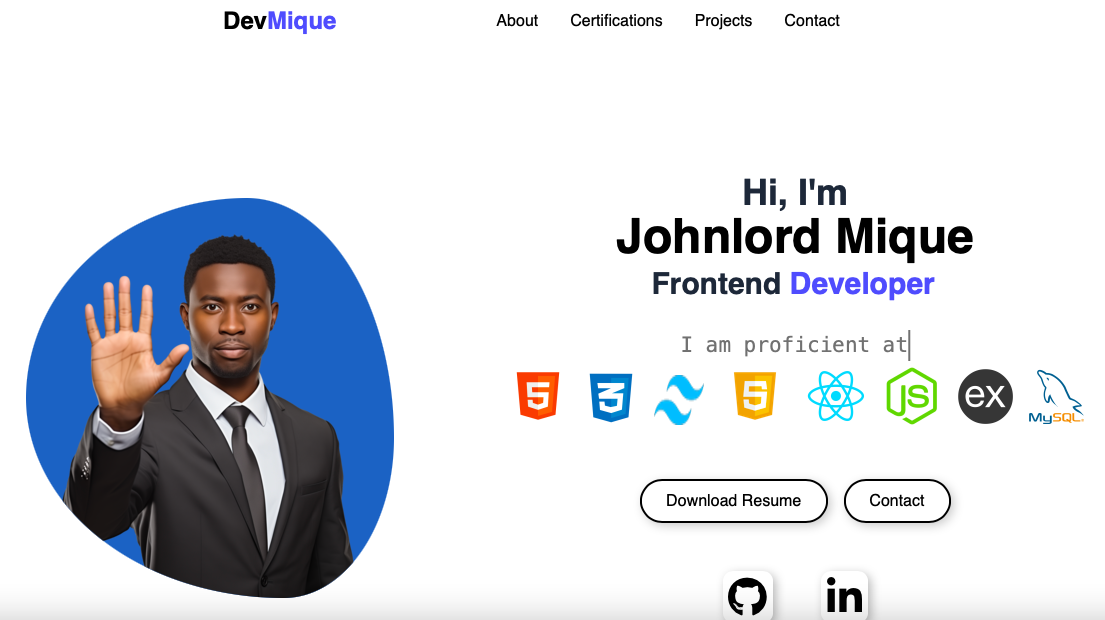
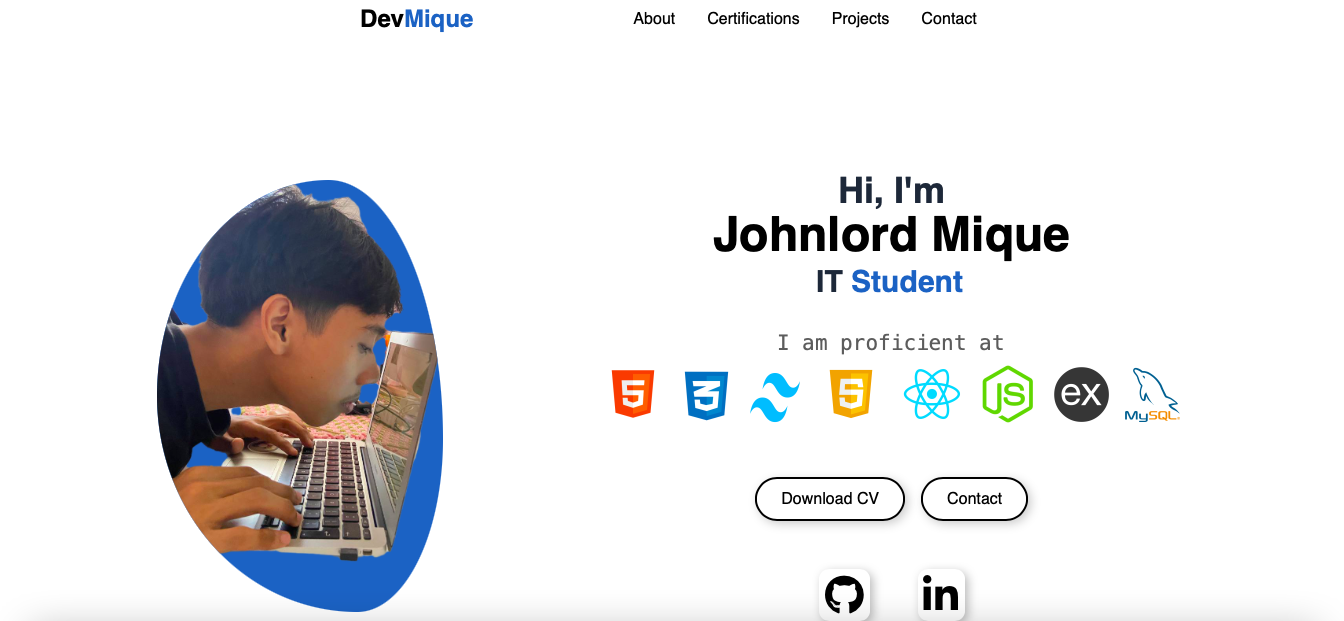
first commit

diff --git a/index.html b/index.html
@@ -30,12 +30,12 @@
     </header>
   <section id="about" class="flex items-center justify-center">
     <div class=" about-container flex items-center justify-center gap-40 max-xl:gap-12 max-md:flex-col">
-        <img src="mee.webp" alt="me" class="about-img">
+        <img src="me2.png" alt="me" class="about-img">
         <div class="  flex flex-col text-center items-center justify-center gap-12">
             <div class="text">
                 <h3 class="text-4xl font-semibold text-gray-800">Hi, I'm</h3>
                 <h1 class="text-5xl font-semibold">Johnlord Mique</h1>
-                <span class="text-[1.9rem] text-[#0759b6e4] font-semibold"><span class="text-gray-800">Frontend</span> Developer</span>
+                <span class="text-[1.9rem] text-[#0759b6e4] font-semibold"><span class="text-gray-800">IT</span> Student</span>
                <br></br>
                 <h1 class="skill-text">I am proficient at</h1>
                 <div class="flex gap-4 cursor-pointer justify-center items-center">
@@ -50,7 +50,7 @@
                 </div>
             </div>
             <div class="flex gap-4">
-                <div class="btn">Download Resume</div>
+                <div class="btn">Download CV</div>
                 <div class="btn">Contact</div>
             </div>
             <div class="flex gap-12">
@@ -65,37 +65,44 @@
     <div class="flex items-center justify-center gap-20 max-xl:flex-col">
         <div class="grid grid-cols-2 gap-8 max-md:grid-cols-1">
             <div class="grid-card">
-                <i class="fa-solid fa-terminal"></i>
-                <span class="font-bold text-[1.2rem] text-gray-900" >Full-Stack <span class="text-[#0759b6e4]">Development</span></span>
+               
                 <img src="cert1.jpg" alt="" class=" cert h-[320px] w-full rounded-xl">
+                <i class="fa-solid fa-terminal"></i>
+                <span class="font-bold text-[1.2rem] text-gray-900">Full-Stack <span class="text-[#0759b6e4]">Development</span></span>
                 <h3 class="font-semibold">April 16, 2025</h3>
                 <p>Online course from mimo.org/mimo app.</p>
             </div>
             <div class="grid-card">
+               
+                <img src="cert2.jpg" alt="" class="cert rounded-xl">
                 <i class="fa-solid fa-code"></i>
-                <span class="font-bold text-[1.2rem] text-gray-900">Introduction to <span class="text-[#0759b6e4]">JavaScript</span></span>
-                <img src="cert2.jpg" alt="" class="cert">
+                <span class="font-bold text-[1.2rem] text-gray-900">Introduction to <span
+                        class="text-[#0759b6e4]">JavaScript</span></span>
                 <h3 class="font-semibold">July 3, 2024</h3>
                 <p>Online course from Sololearn app.</p>
             </div>
             <div class="grid-card">
-            <i class="fa-solid fa-code"></i>
-                <span  class="font-bold text-[1.2rem] text-gray-900">JavaScript <span class="text-[#0759b6e4]">Intermediate</span></span>
-                <img src="cert3.jpg" alt="" class="cert">
+           
+                <img src="cert3.jpg" alt="" class="cert rounded-xl">
+                <i class="fa-solid fa-code"></i>
+                <span class="font-bold text-[1.2rem] text-gray-900">JavaScript <span class="text-[#0759b6e4]">Intermediate</span></span>
+             
                 <h3 class="font-semibold">July 7, 2024</h3>
                 <p>Online course from Sololearn app.</p>
             </div>
             <div class="grid-card">
+               
+                <img src="cert4.jpg" alt="" class="cert rounded-xl">
                 <i class="fa-solid fa-database"></i>
-                <span  class="font-bold text-[1.2rem] text-gray-900">Introduction to <span class="text-[#0759b6e4]">SQL</span></span>
-                <img src="cert4.jpg" alt="" class="cert">
+                <span class="font-bold text-[1.2rem] text-gray-900">Introduction to <span class="text-[#0759b6e4]">SQL</span></span>
                 <h3 class="font-semibold">October 16, 2024</h3>
                 <p>Online course from Sololearn app.</p>
             </div>
             <div class="grid-card">
+               
+                <img src="cert5.jpg" alt="" class="cert rounded-xl">
                 <i class="fa-solid fa-database"></i>
                 <span class="font-bold text-[1.2rem] text-gray-900">SQL <span class="text-[#0759b6e4]">Intermediate</span></span>
-                <img src="cert5.jpg" alt="" class="cert">
                 <h3 class="font-semibold">November 03, 2024</h3>
                 <p>Online course from Sololearn app.</p>
             </div>
@@ -110,7 +117,8 @@
         <div class="project-card">
             <img src="project1.jpeg" alt="" class="project-img w-[200px] h-[200px]">
             <h3>Project 1</h3>
-            <h2 class="text-[1.2rem] font-bold"> Admin-Parent <span class="text-[#0759b6e4]">Dashboard</span></h2>
+            <h2 class="text-[1.2rem] font-bold text-gray-800"> Admin-Parent <span class="">Dashboard</span></h2>
+           <p class="text-gray-700">Tech Stack: React.js, CSS3, Node.js, Express.js and MySQL</p>
             <div class="flex gap-8">
             <a href="">
                 <div class="btn">Live Demo</div>
@@ -121,7 +129,8 @@
         <div class="project-card">
         <img src="project2.jpeg" alt="" class="project-img w-[200px] h-[200px]">
             <h3>Project 2</h3>
-            <h2 class="text-[1.2rem] font-bold">Portfolio <span class="text-[#0759b6e4]">Website</span></h2>
+            <h2 class="text-[1.2rem] font-bold text-gray-800">Portfolio <span class="">Website</span></h2>
+            <p class="text-gray-700">Tech Stack: HTML5, CSS3, Tailwind CSS and JavaScript</p>
             <div class="flex gap-8">
             <a href="">
                 <div class="btn">Live Demo</div>

diff --git a/style.css b/style.css
@@ -82,12 +82,13 @@ section{
     }
 }
 .about-img{
-    width: 30vw;
+    width: 25vw;
     border-radius: 60% 40% 30% 70% / 50% 60% 40% 50%;
     background-color:#0759b6e4;
+    
 }
 .skill-text{
-    color: rgba(0, 0, 0, 0.556);
+    color: rgba(0, 0, 0, 0.639);
     font-size: 1.3rem;
    font-family: monospace;
     margin-inline:auto;
@@ -160,6 +161,7 @@ section{
     border: 2px solid black;
     border-radius: 2rem;
     padding: 1.5rem;
+   
     display: flex;
     flex-direction: column;
     align-items: baseline;
@@ -222,19 +224,24 @@ footer ul li a{
     color: black;
     font-weight: 600;
 }
+.nav-links{
+    display: flex;
+    gap: 2rem;
+}
 @media (max-width: 640px) {
     .nav-links {
         display: none;
         flex-direction: column;
         background: transparent;
-        text-align: center;
+        text-align: left;
         width: 40%;
         position: absolute;
         top: 100%;
-        left: 50%;
+        left: 60%;
         font-weight: bold;
         color: #1f2937;
         border-radius: 1rem;
+        gap:0;
     }
 
     .nav-links.active {

diff --git a/README.md b/README.md
@@ -1,1 +1,2 @@
 # portfolio-sample
+# portfolio-sample
